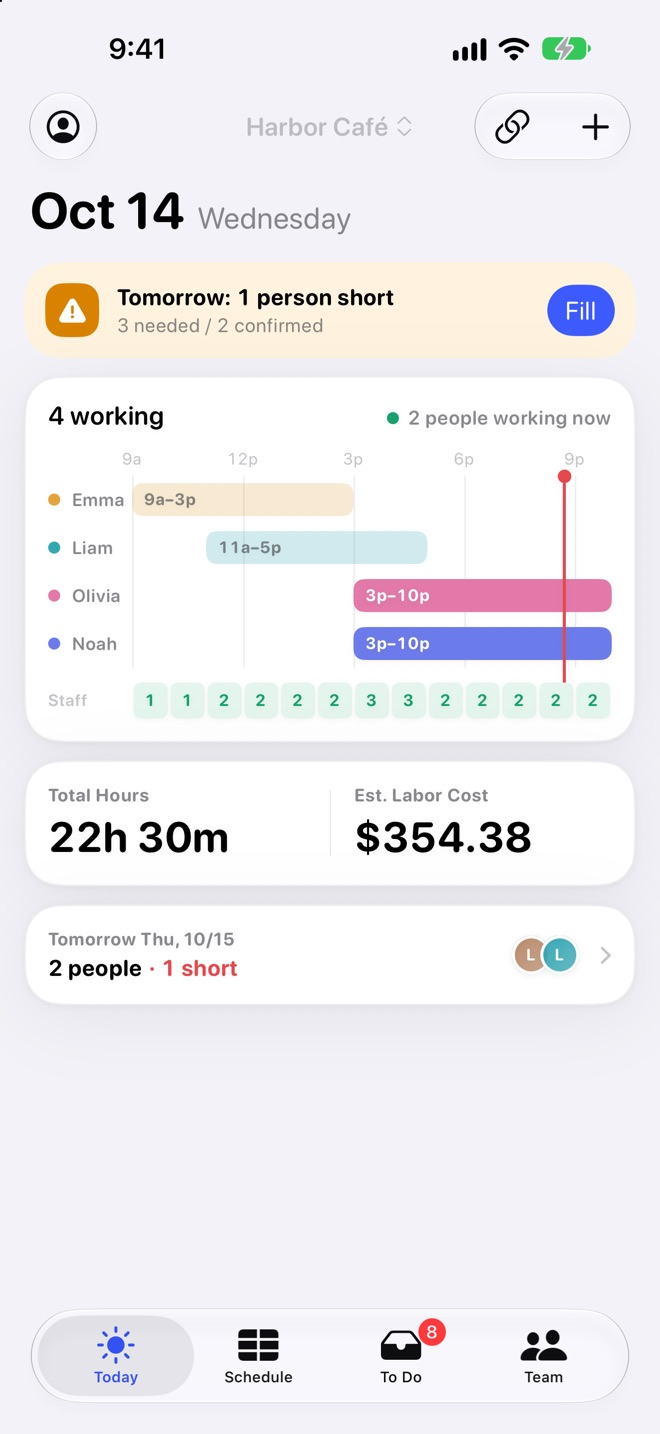
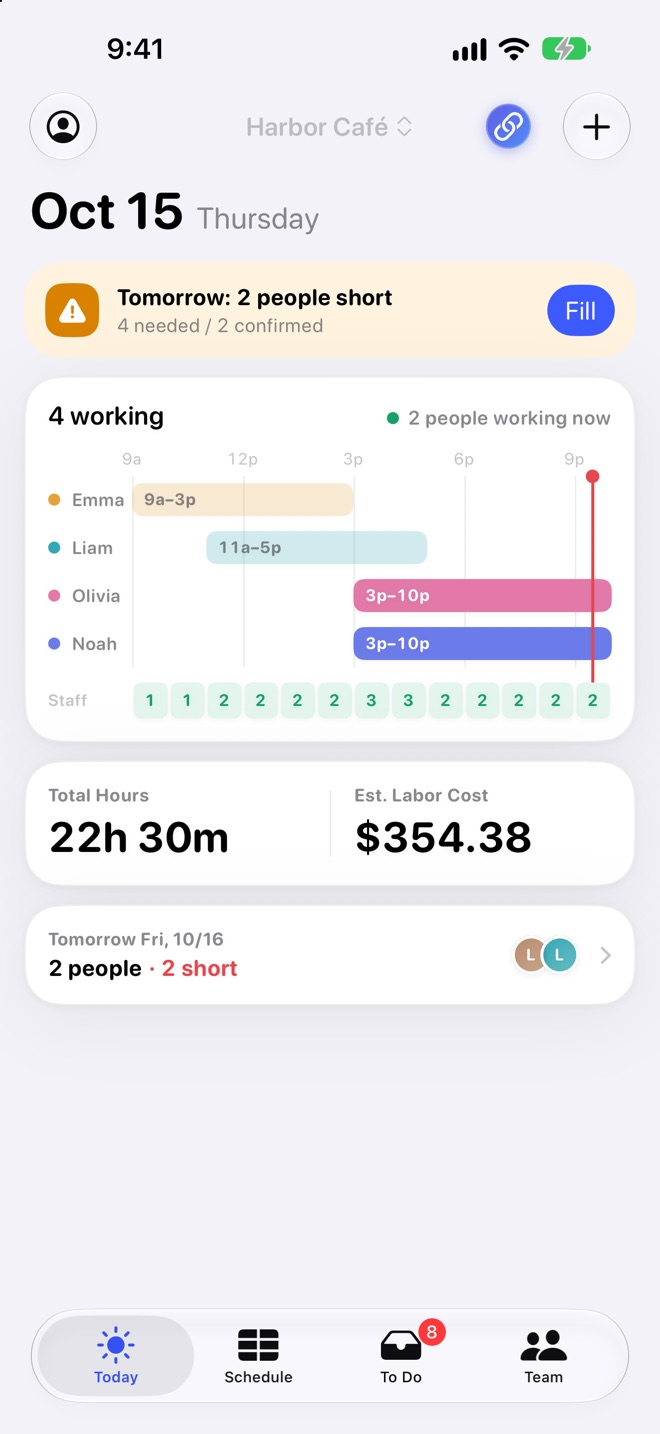
feat: add a support question on missing request notifications (Japanese and English), and retake the Today screenshots with the new Shiftmate Link button

diff --git a/shiftmate/support/index.html b/shiftmate/support/index.html
@@ -93,6 +93,18 @@
             </div>
           </details>
           <details>
+            <summary>希望が届いても、通知が来ません</summary>
+            <div>
+              <p>希望が届いたことの通知は、次の3つがそろっている iPhone に届きます。</p>
+              <ul>
+                <li>iPhone の「設定」→「通知」→「Shiftmate」で、通知が許可されている（一覧に Shiftmate が無いときは、アプリで「Shiftmate リンク」か「やること」を開くと、許可を求める画面が出ます）</li>
+                <li>チームの「設定」の「希望が届いたら知らせる」がオンになっている（端末ごとの設定です）</li>
+                <li>iPhone が iCloud にサインインしている</li>
+              </ul>
+              <p>通知が来なくても、アプリを開くか、「やること」を下に引っ張ると、届いた希望を受け取れます。</p>
+            </div>
+          </details>
+          <details>
             <summary>「Shiftmate リンク」を解約したい</summary>
             <div>
               <p>チームの「設定」→「Shiftmate リンク」→「サブスクリプションを管理」から解約できます（iPhone の「設定」→ Apple アカウント →「サブスクリプション」からも同じです）。解約しても、期間の終わりまでは使えます。</p>
@@ -219,6 +231,18 @@
                 <li>Your staff reload the page in their browser</li>
               </ul>
               <p>You can also send it right away from Manage Links, then Update Now, on the Shiftmate Link screen.</p>
+            </div>
+          </details>
+          <details>
+            <summary>Requests arrive, but I don't get a notification</summary>
+            <div>
+              <p>Notifications about new requests reach an iPhone when all three of these are true:</p>
+              <ul>
+                <li>Notifications are allowed for Shiftmate in iPhone Settings, under Notifications (if Shiftmate isn't listed, open Shiftmate Link or To Do in the app, and it will ask for permission)</li>
+                <li>Notify When Requests Arrive is on in Settings in the Team tab (it's set for each device)</li>
+                <li>The iPhone is signed in to iCloud</li>
+              </ul>
+              <p>Even without a notification, opening the app or pulling down on To Do brings in the requests that arrived.</p>
             </div>
           </details>
           <details>
